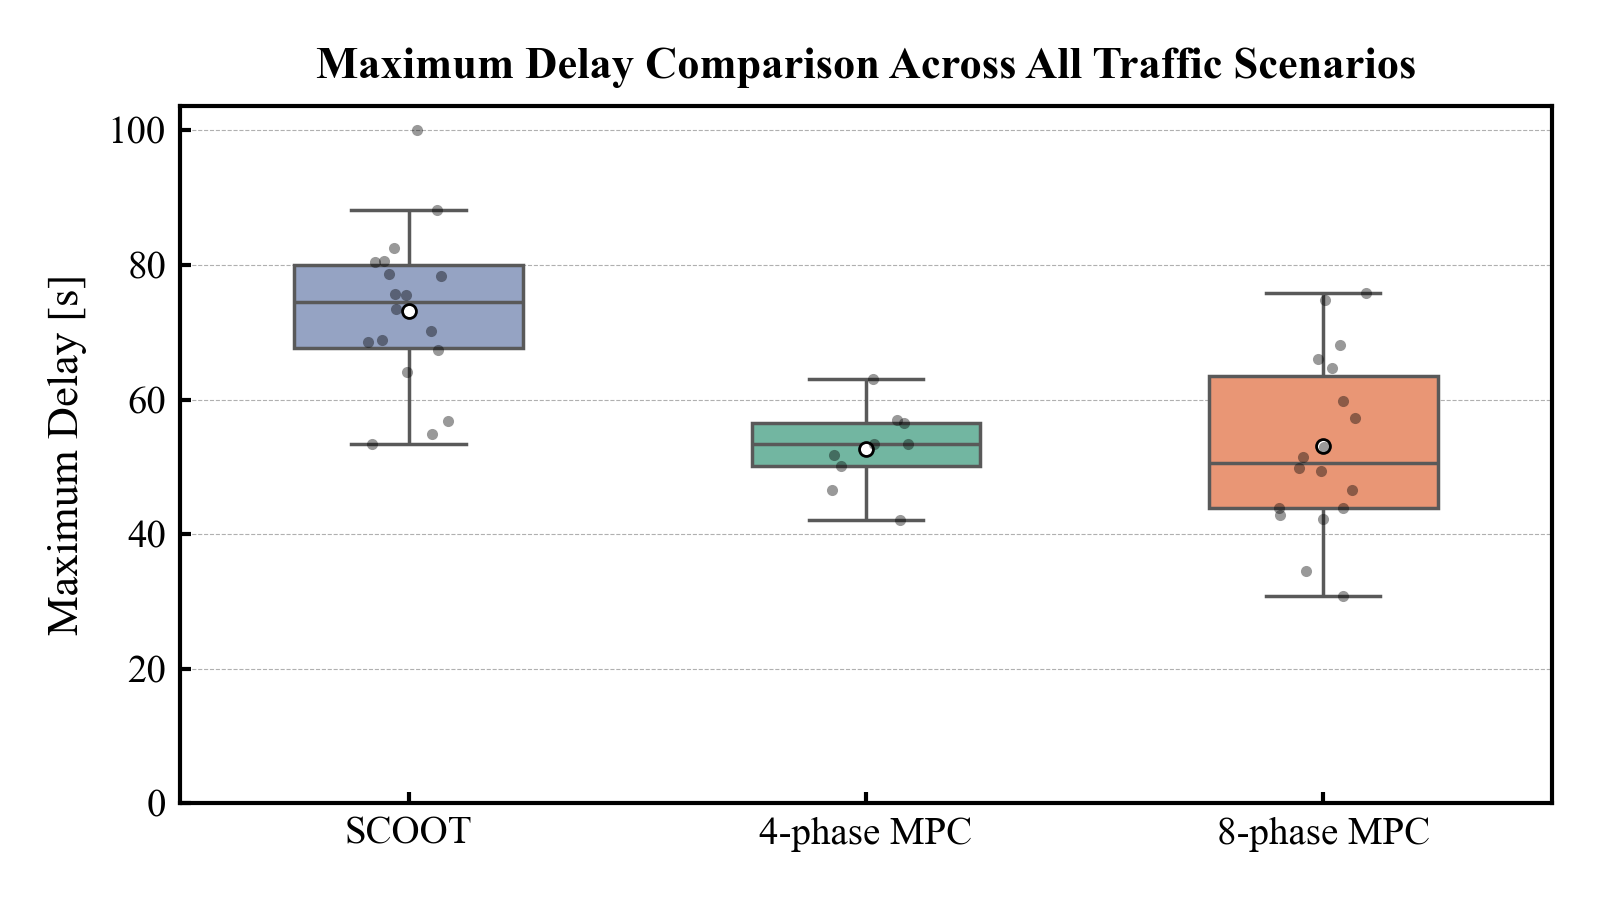
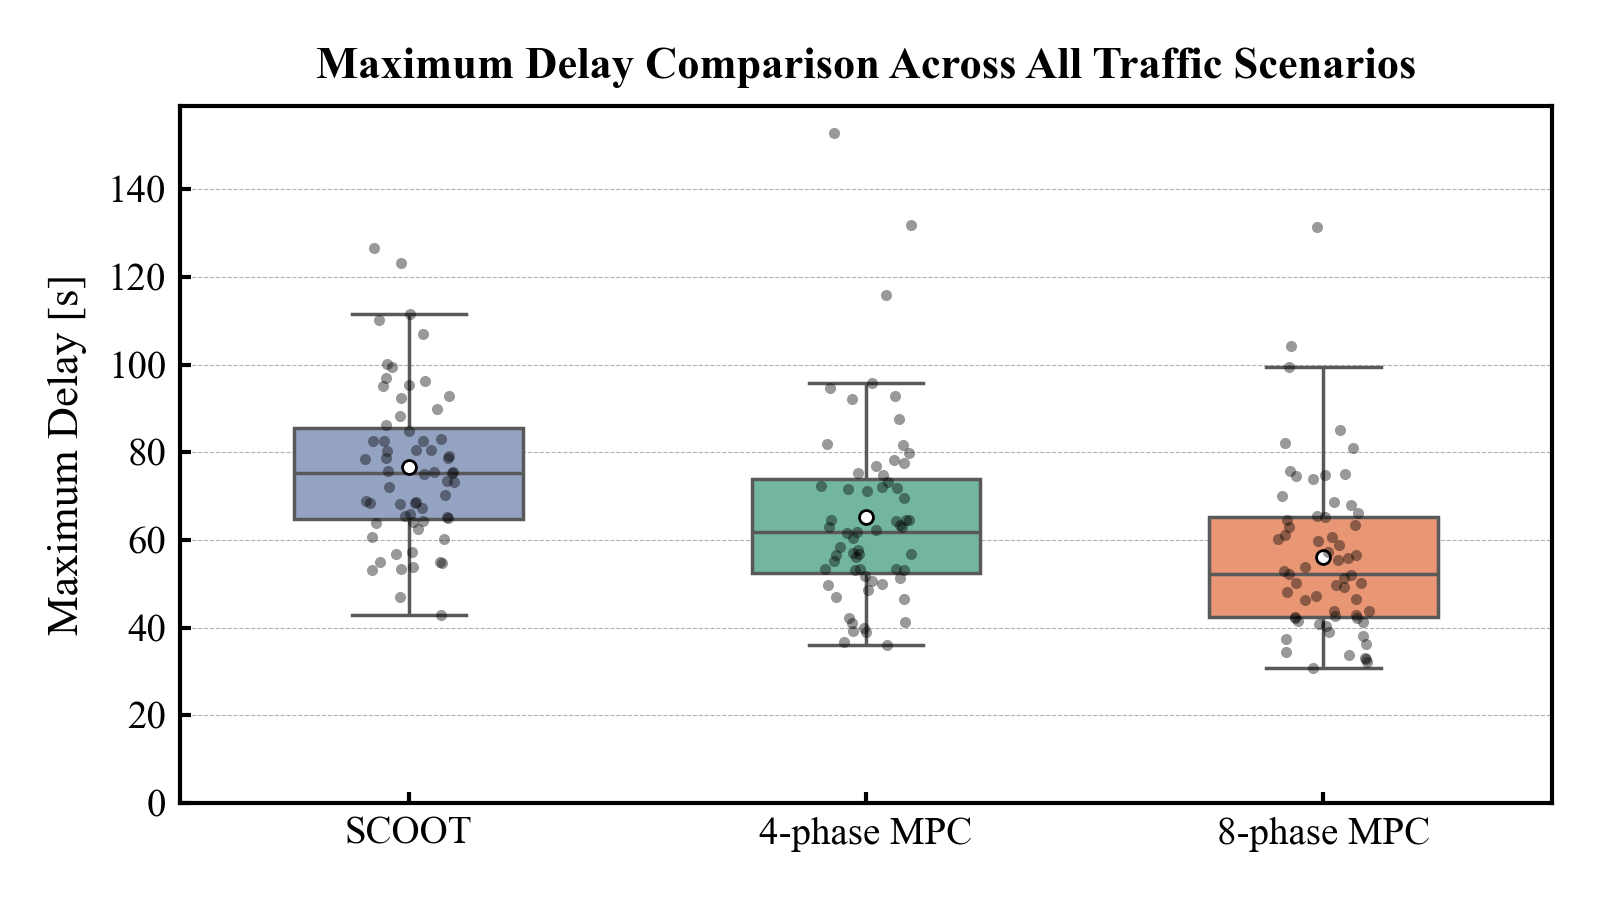
update figures

diff --git a/misc/analysis/performance_metric_stats/multiple_intersection/make_csv.py b/misc/analysis/performance_metric_stats/multiple_intersection/make_csv.py
@@ -42,6 +42,9 @@ for layout, route_selection in config_yaml['target']['layout'].items():
             continue
         
         inflow = simulator_dir_path.parent.name
+        if inflow in config_yaml['target']['removed_inflow_types']:
+            continue
+        
         simulator_dir_path_map[(inflow, route_selection)] = simulator_dir_path
 
 # initialize performance_metric_map_list
